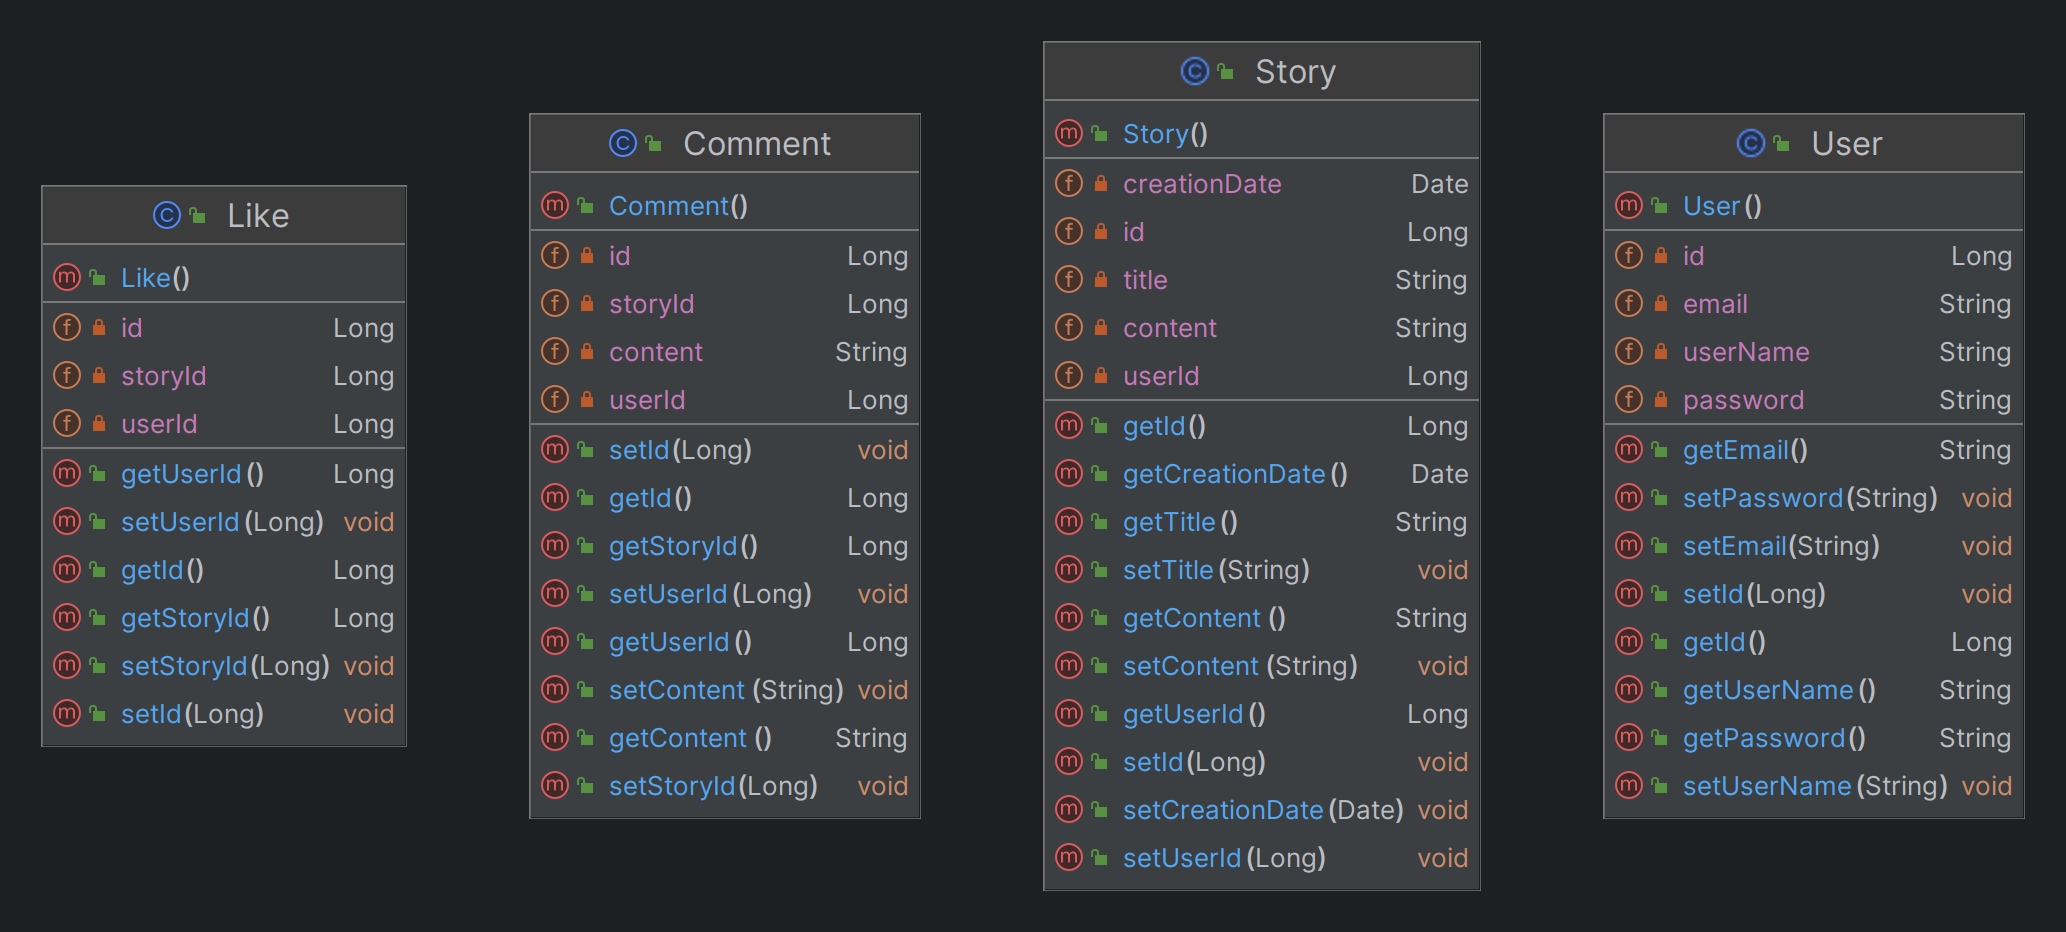
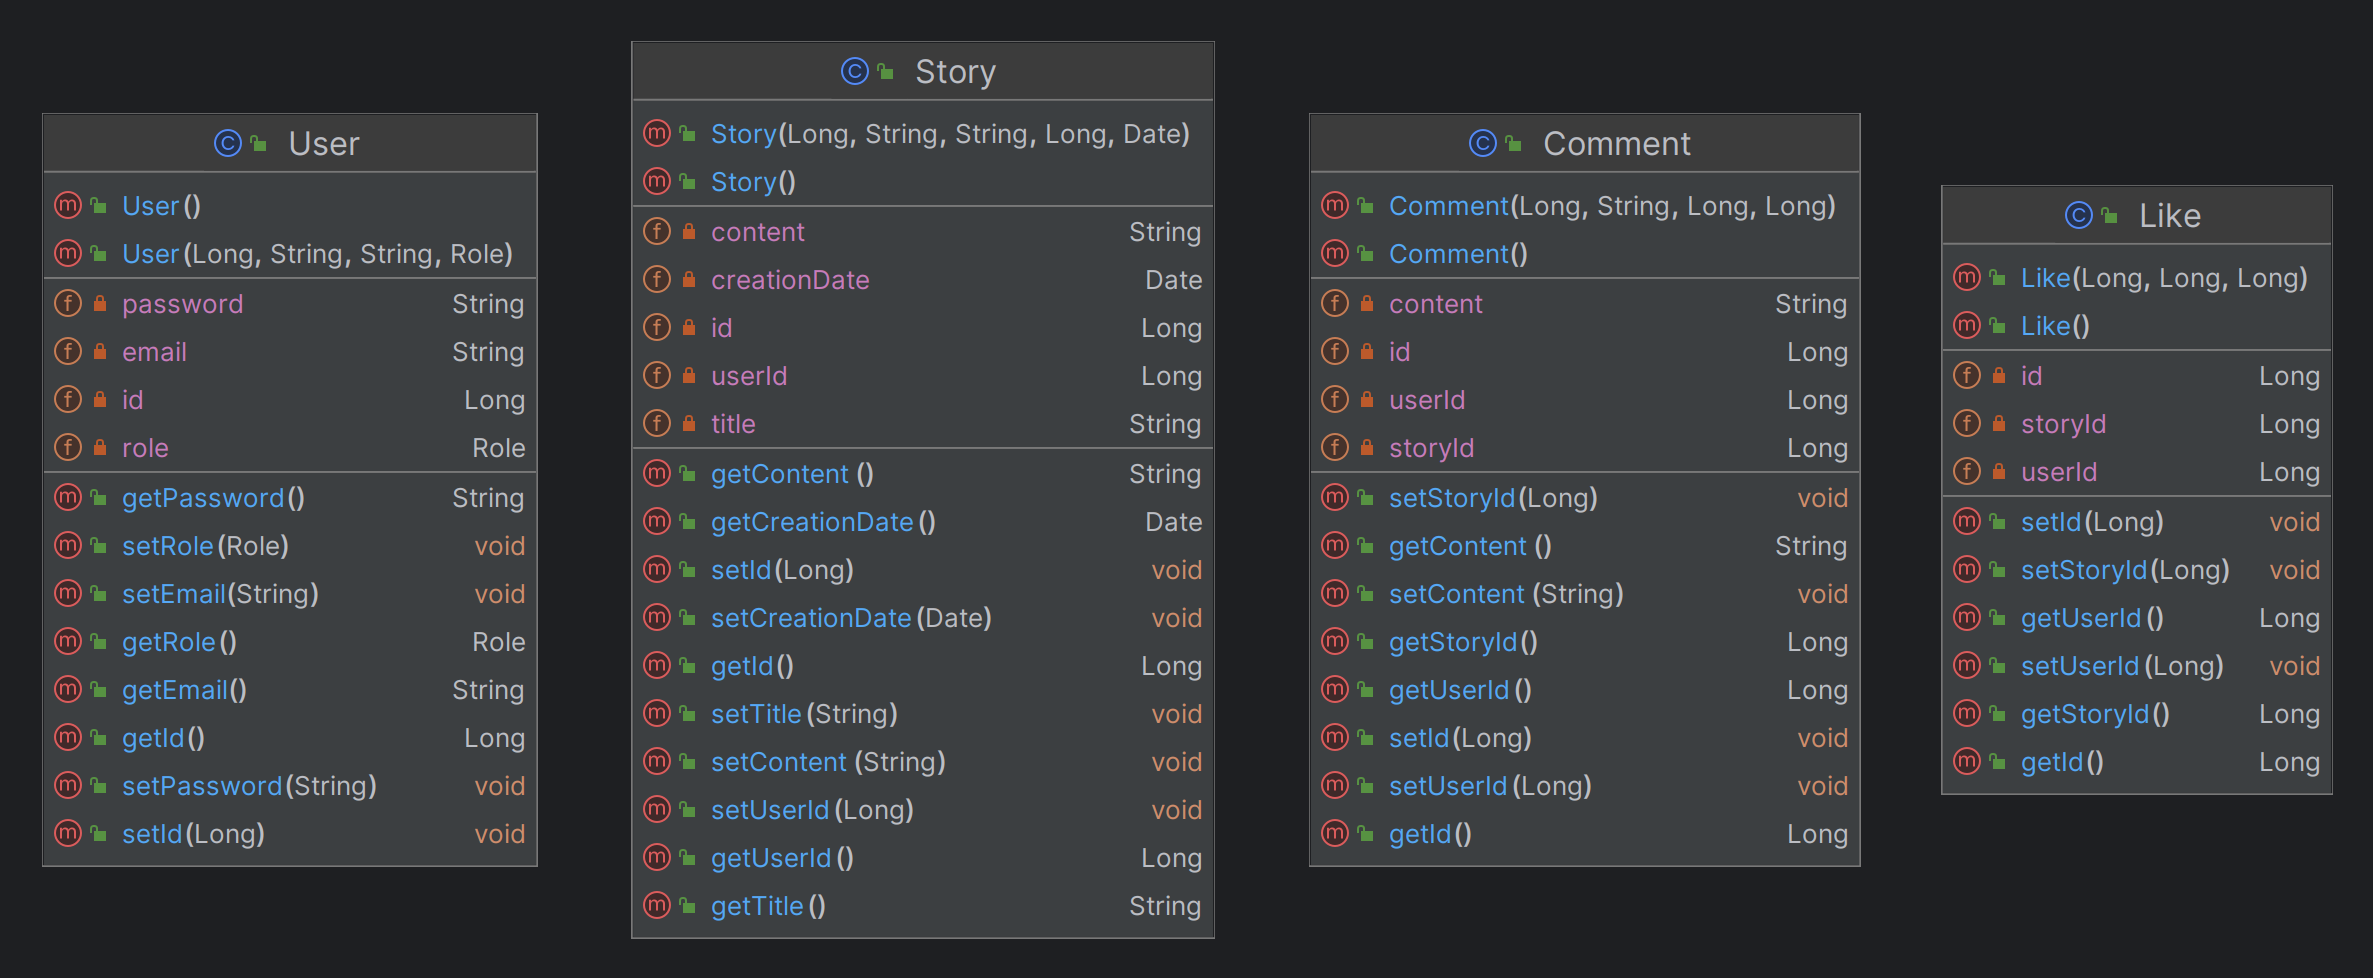
Update class diagram to include constructors

diff --git a/README.md b/README.md
@@ -1,16 +1,20 @@
-# Microfiction Service (Under Development) 🚧
+# Microfiction Service
 
-The Microfiction API is a RESTful web service designed for writers to create, publish, and explore microfiction stories. Microfiction, also known as flash fiction or short-short stories, is a genre of fiction characterized by its brevity, typically consisting of narratives under 300 words.
+The Microfiction service is a RESTful web service designed for writers to create, publish, and explore microfiction
+stories. Microfiction, also known as flash fiction or short-short stories, is a genre of fiction characterized by its
+brevity, typically consisting of narratives under 300 words.
 
 ## Key Features
 
 - **User Management**: Create accounts, manage profiles, and connect with fellow writers.
 - **Story Creation and Publication**: Write, edit, and publish microfiction stories with ease.
 - **Social Interaction**: Like, comment on, and share stories to engage with other writers and readers.
-- **Search and Discovery**: Explore a diverse collection of microfiction stories through advanced search and discovery features.
+- **Search and Discovery**: Explore a diverse collection of microfiction stories through advanced search and discovery
+  features.
 - **Security and Privacy**: Secure authentication and authorization mechanisms protect user data and ensure privacy.
 
 ## UML Class Diagram
+
 The UML class diagram below illustrates the core entities of the service.
 <img src="uml.png"/>
 
@@ -22,17 +26,20 @@ The UML class diagram below illustrates the core entities of the service.
 
 ## API Documentation
 
-The API documentation is generated using Springdoc OpenAPI. After running the application, you can access the Swagger UI at `http://localhost:8080/swagger-ui.html`. And the API docs at `http://localhost:8080/v3/api-docs`
+The API documentation is generated using Springdoc OpenAPI. After running the application, you can access the Swagger UI
+at `http://localhost:8080/swagger-ui.html`. And the API docs at `http://localhost:8080/v3/api-docs`
 
 ## Tools and Dependencies
 
 The service relies on the following tools and dependencies:
 
-- **Docker Compose**: Simplifies the orchestration of multi-container applications.
+- **Docker**: *Docker compose* - Simplifies the orchestration of multi-container applications.
 - **Spring Boot**: A powerful framework for building Java-based applications.
 - **Spring Data JPA**: Provides easy access to data persistence in relational databases with Java Persistence API (JPA).
 - **Spring Security**: Offers robust authentication and authorization features to secure the application.
-- **Springdoc OpenAPI**: Generates API documentation using OpenAPI specifications, facilitating API exploration and integration.
+- **Springdoc OpenAPI**: Generates API documentation using OpenAPI specifications, facilitating API exploration and
+  integration.
 - **MySQL**: A popular open-source relational database management system.
-- **Hibernate**: An object-relational mapping (ORM) framework for mapping Java objects to database tables and vice versa.
+- **Hibernate**: An object-relational mapping (ORM) framework for mapping Java objects to database tables and vice
+  versa.
 - **Mockito & JUnit**: Used for testing purposes
